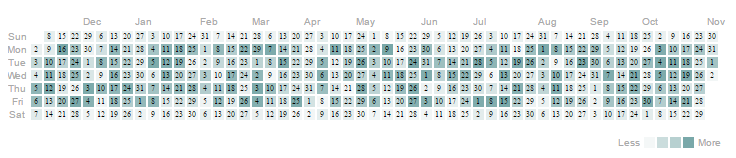
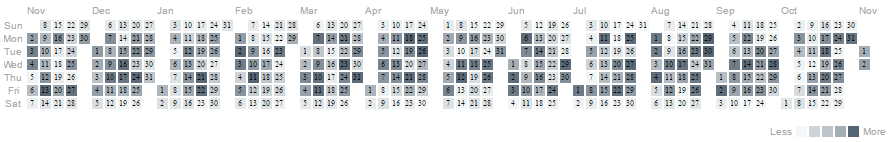
tooltip position fixed

diff --git a/src/calendar-heatmap.js b/src/calendar-heatmap.js
@@ -166,24 +166,32 @@ function calendarHeatmap() {
 
       if (chart.tooltipEnabled()) {
         dayRects.on('mouseover', function (d, i) {
+          var monthSpacing =  0;
+            if (monthSpace){
+              monthSpacing = moment(d).diff((firstDate).startOf('month'), 'months');
+            }
           tooltip = d3.select(chart.selector())
             .append('div')
             .attr('class', 'day-cell-tooltip')
             .html(tooltipHTMLForDate(d))
-            .style('left', function () { return Math.floor(i / 7) * SQUARE_LENGTH + 'px'; })
-            .style('top', function () { return d.getDay() * (SQUARE_LENGTH + SQUARE_PADDING) + MONTH_LABEL_PADDING * 3 + 'px'; });
+            .style('left', function () { return (Math.floor(i / 7)+monthSpacing) * SQUARE_LENGTH + 'px'; })
+            .style('top', function () { return d.getDay() * (SQUARE_LENGTH + SQUARE_PADDING) + (MONTH_LABEL_PADDING - 5) * 3 + 'px'; });
         })
         .on('mouseout', function (d, i) {
           tooltip.remove();
         });
         if (dayNumbersInBox){
           dayNumbers.on('mouseover', function (d, i) {
+            var monthSpacing =  0;
+            if (monthSpace){
+              monthSpacing = moment(d).diff((firstDate).startOf('month'), 'months');
+            }
             tooltip = d3.select(chart.selector())
               .append('div')
               .attr('class', 'day-cell-tooltip')
               .html(tooltipHTMLForDate(d))
-              .style('left', function () { return Math.floor(i / 7) * SQUARE_LENGTH + 'px'; })
-              .style('top', function () { return d.getDay() * (SQUARE_LENGTH + SQUARE_PADDING) + MONTH_LABEL_PADDING * 3 + 'px'; });
+              .style('left', function () { return (Math.floor(i / 7)+monthSpacing) * SQUARE_LENGTH + 'px'; })
+              .style('top', function () { return d.getDay() * (SQUARE_LENGTH + SQUARE_PADDING) + (MONTH_LABEL_PADDING - 5) * 3 + 'px'; });
           })
           .on('mouseout', function (d, i) {
             tooltip.remove();
@@ -193,7 +201,7 @@ function calendarHeatmap() {
 
       if (chart.legendEnabled()) {
         var colorRange = [color(0)];
-        for (var i = 3; i > 0; i--) {
+        for (var i = 4; i > 0; i--) {
           colorRange.push(color(max / i));
         }
 
@@ -201,7 +209,7 @@ function calendarHeatmap() {
         legendGroup.selectAll('.calendar-heatmap-legend')
             .data(colorRange)
             .enter()
-          .append('rect')
+            .append('rect')
             .attr('class', 'calendar-heatmap-legend')
             .attr('width', SQUARE_LENGTH)
             .attr('height', SQUARE_LENGTH)

diff --git a/example/index.html b/example/index.html
@@ -25,8 +25,8 @@
                       .tooltipEnabled(true)
                       .allWeekdayNames(true)
                       .dayNumbersInBox(true)
-                      .monthSpace(false)
-                      .colorRange(['#f4f7f7', '#79a8a9'])
+                      .monthSpace(true)
+                      .colorRange(['#f4f7f7', '#566573'])
                       .onClick(function (data) {
                         console.log('data', data);
                       });
